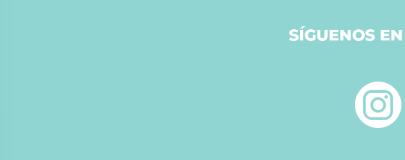
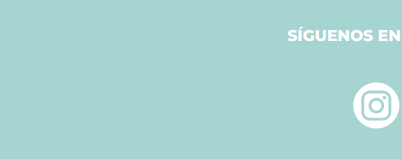
Proyecto2

Changed region(s): [[0.8657, 0.5031, 1.0, 0.8302], [0.7164, 0.1509, 1.0, 0.2767]]

diff --git a/Proyecto2/codigo.html b/Proyecto2/codigo.html
@@ -153,12 +153,6 @@
       .social-logos {
         text-align: center;
       }
-      .social-logos img {
-        margin-right: 30px; /* Mucho más espacio horizontal entre los logos */
-        margin-left: 30px;
-        width: 50px; /* Cambia el valor según el tamaño deseado */
-        height: 50px; /* Cambia el valor según el tamaño deseado */
-      }
     </style>
 </head>
 <body marginwidth="0" marginheight="0" offset="0" topmargin="0" leftmargin="0" bgcolor="#ffffff">
@@ -199,29 +193,35 @@
   </table>
 
   <!-- Sección de redes sociales -->
-  <table width="100%" border="0" cellspacing="0" cellpadding="0" align="center" bgcolor="#ffffff">
-    <tr>
-      <td align="center">
-        <table width="650" border="0" cellspacing="0" cellpadding="0" align="center" bgcolor="#ffffff">
-          <tr>
-            <td class="social-section">
-              SÍGUENOS EN NUESTRAS REDES
-            </td>
-          </tr>
-          <tr>
-            <td align="center">
-              <table class="social-logos" border="0" cellspacing="0" cellpadding="0">
-                <tr>
-                  <td><a href="https://web.facebook.com/yvesrocherchile/?locale=es_LA&_rdc=1&_rdr" target="_blank"><img src="https://raw.githubusercontent.com/olguitab/Proyecto/main/Proyecto1/10.png" width="24" height="24" border="0" /></a></td>
-                  <td><a href="https://www.instagram.com/yvesrocher_cl/?hl=es" target="_blank"><img src="https://raw.githubusercontent.com/olguitab/Proyecto/main/Proyecto2/9.png" width="24" height="24" border="0" /></a></td>
-                </tr>
-              </table>
-            </td>
-          </tr>
-        </table>
-      </td>
-    </tr>
-  </table>
+    <table width="100%" border="0" cellspacing="0" cellpadding="0" align="center" bgcolor="#ffffff">
+        <tr>
+        <td align="center">
+            <table width="650" border="0" cellspacing="0" cellpadding="0" align="center" bgcolor="#ffffff">
+            <tr>
+                <td align="center">
+                <table class="social-logos" border="0" cellspacing="0" cellpadding="0" style="width:100%;">
+                    <tr>
+                    <!-- Ajustamos el ancho de las celdas para que las imágenes ocupen el espacio completo -->
+                    <td style="text-align:right; width:50%;">
+                        <!-- Imagen de Instagram, ajustamos el tamaño -->
+                        <a href="https://www.instagram.com/yvesrocher_cl/?hl=es" target="_blank">
+                        <img src="https://raw.githubusercontent.com/olguitab/Proyecto/main/Proyecto2/9.png" width="325" height="325" border="0" />
+                        </a>
+                    </td>
+                    <td style="text-align:left; width:50%;">
+                        <!-- Imagen de Facebook, ajustamos el tamaño -->
+                        <a href="https://web.facebook.com/yvesrocherchile/?locale=es_LA&_rdc=1&_rdr" target="_blank">
+                        <img src="https://raw.githubusercontent.com/olguitab/Proyecto/main/Proyecto2/10.png" width="325" height="325" border="0" />
+                        </a>
+                    </td>
+                    </tr>
+                </table>
+                </td>
+            </tr>
+            </table>
+        </td>
+        </tr>
+    </table>
 
   <!-- Footer -->
   <table width="100%" border="0" cellspacing="0" cellpadding="0" align="center" bgcolor="#ffffff">
